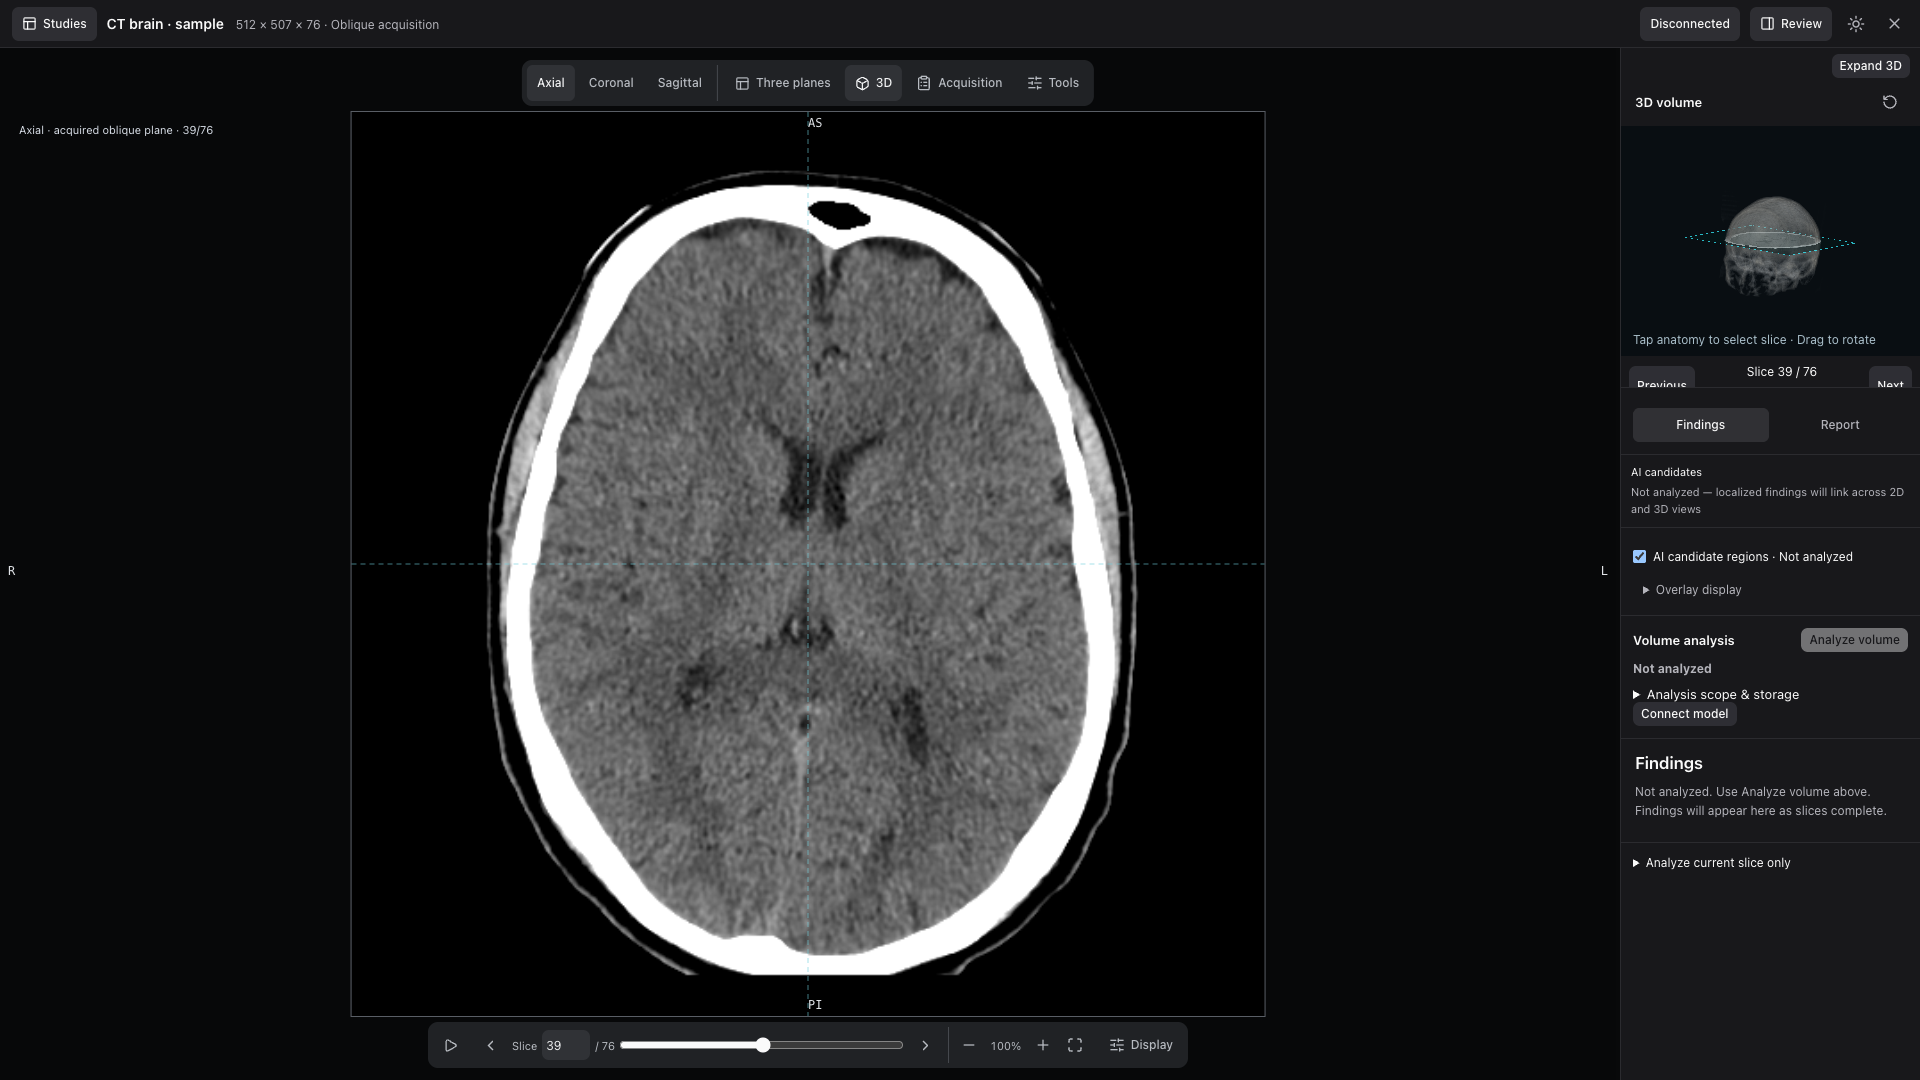
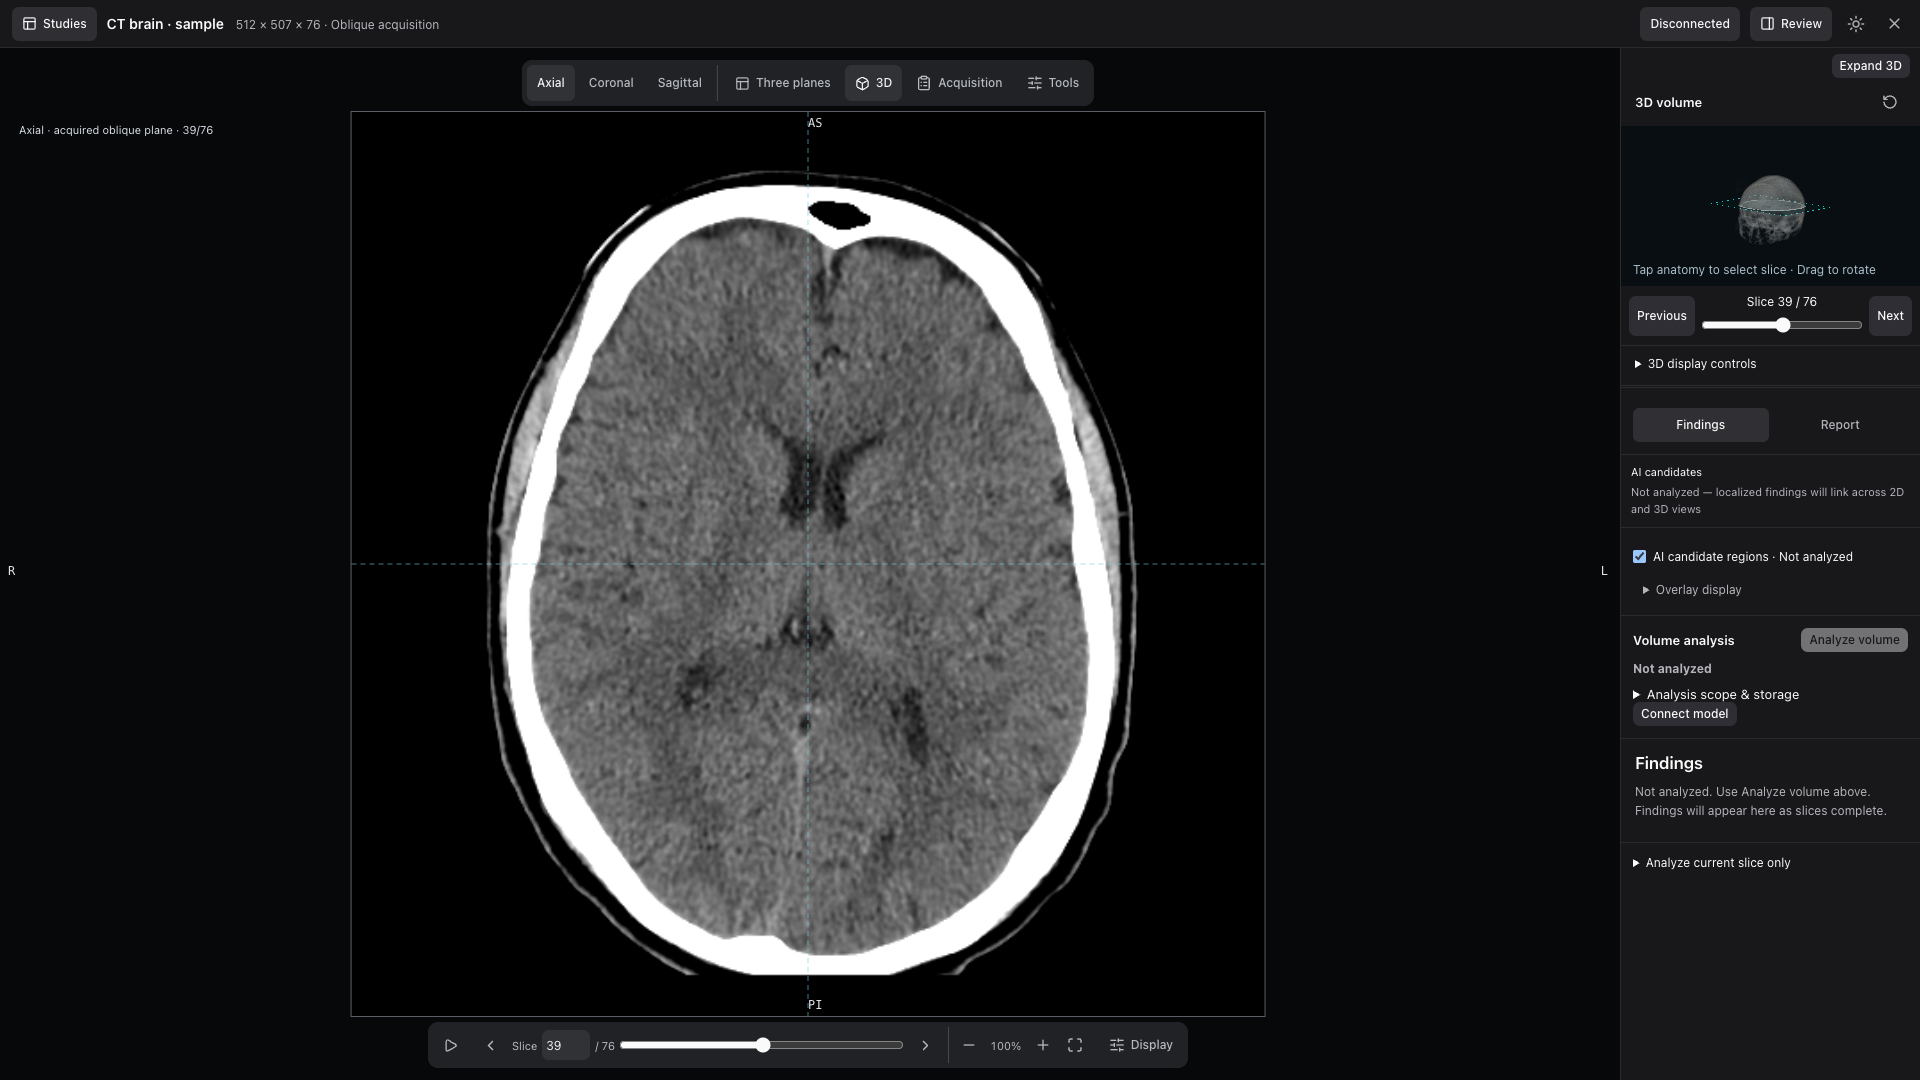
Fix three workspace layout glitches and retake all screenshots
- Sidebar open-volume card: a fixed 32px button height clipped its
  second and third lines; let it size to its content.
- 3D locator: the canvas reserved 110px for chrome but the header, slice
  navigation and controls need ~180px, so Previous/Next were cut off.
- X-ray Display button: the global reset removed its padding and left
  the browser's default outset border; style it like the volume dock
  button and add the same sliders icon.

Retake all six v0.2.0 workspace screenshots, including X-ray desktop and
mobile from ChestX-Det test image 36199, and update capture notes.

Changed region(s): [[0.8438, 0.1528, 1.0, 0.3667]]

diff --git a/app/src/components/viewer/ImageViewer.tsx b/app/src/components/viewer/ImageViewer.tsx
@@ -4,7 +4,7 @@ import { Popover, PopoverTrigger, PopoverContent } from '../ui/popover'
 // Diagnostic image viewer: fit/zoom/pan, window-level, invert, finding overlays locked to the image.
 import { useCallback, useEffect, useLayoutEffect, useMemo, useRef, useState } from 'react'
 import type { PointerEvent as ReactPointerEvent, WheelEvent as ReactWheelEvent } from 'react'
-import { ChevronLeft, ChevronRight, Columns2, Contrast, Eye, EyeOff, Flame, Layers, Maximize, RotateCcw, ZoomIn, ZoomOut } from 'lucide-react'
+import { ChevronLeft, ChevronRight, Columns2, Contrast, Eye, EyeOff, Flame, Layers, Maximize, RotateCcw, SlidersHorizontal, ZoomIn, ZoomOut } from 'lucide-react'
 import type { Finding, Heatmap, OverlayStyle, ViewerState } from '../../types'
 import { useActiveImage, useActiveStudy, useApp } from '../../store'
 import { findingCounts, isExcluded, isUnconfirmed, worstSeverity } from '../../lib/classifier'
@@ -498,7 +498,7 @@ export function ImageViewer() {
           <span>Image {study.images.findIndex((item) => item.id === image.id) + 1} / {study.images.length}</span>
           <ScanButton type="button" className="btn btn-sm" aria-label="Next image" disabled={study.images.findIndex((item) => item.id === image.id) >= study.images.length - 1} onClick={() => { const index = study.images.findIndex((item) => item.id === image.id); if (index < study.images.length - 1) selectImage(study.images[index + 1].id) }}><ChevronRight aria-hidden="true" /></ScanButton>
         </div>}
-        <Popover><PopoverTrigger asChild><ScanButton className="scan-display-trigger">Display</ScanButton></PopoverTrigger><PopoverContent side="top" align="end" className="scan-display-popover"><div className="vw-adjustment-fields">
+        <Popover><PopoverTrigger asChild><ScanButton className="scan-display-trigger"><SlidersHorizontal size={16} aria-hidden="true" /><span>Display</span></ScanButton></PopoverTrigger><PopoverContent side="top" align="end" className="scan-display-popover"><div className="vw-adjustment-fields">
           <label>Brightness <input type="range" min={20} max={300} value={viewer.brightness} onChange={(event) => setViewer({ brightness: Number(event.target.value) })} /><output>{viewer.brightness}%</output></label>
           <label>Contrast <input type="range" min={20} max={400} value={viewer.contrast} onChange={(event) => setViewer({ contrast: Number(event.target.value) })} /><output>{viewer.contrast}%</output></label>
           <ScanButton className="btn btn-sm" onClick={() => setViewer({ brightness: 100, contrast: 100, invert: false })}>Reset display</ScanButton><small>Display adjustment only. Source pixels are unchanged.</small>

diff --git a/app/src/styles/scanWorkspace.css b/app/src/styles/scanWorkspace.css
@@ -160,6 +160,8 @@
 .scan-content .vw-workspace > .vw-toolbox { position: absolute; top: 48px; bottom: auto; left: 50%; right: auto; transform: translateX(-50%); width: max-content; max-width: calc(100% - 24px); border: 0; border-radius: 10px; padding: 5px; background: var(--scan-surface); box-shadow: none; z-index: 6; }
 .scan-content .vw-reading-controls { position: absolute; bottom: 12px; left: 50%; transform: translateX(-50%); display: flex; align-items: center; justify-content: space-between; width: min(420px,calc(100% - 24px)); padding: 5px; border-radius: 10px; gap: 12px; z-index: 6; background: var(--scan-surface); }
 .scan-content .vw-reading-controls button { color: var(--scan-ink); background: transparent; }
+.vw-reading-controls .scan-display-trigger { border: 0; box-shadow: none; min-height: 36px; border-radius: 6px; font-size: 12px; padding: 6px 10px; }
+@media (max-width: 1023px) { .vw-reading-controls .scan-display-trigger { min-height: 44px; padding-inline: 8px; } }
 .scan-content .vw-workspace .vw-info { top: 104px !important; left: 16px !important; background: transparent; color: var(--scan-muted); }
 .scan-content .vw-workspace .vw-info .vw-name, .scan-content .vw-workspace .vw-info .vw-row:nth-child(2) { display: flex; color: var(--scan-ink); }
 .scan-content .vw-workspace > .vw-evidence { position: absolute; right: 12px; top: 102px; width: min(300px,40%); max-height: 35%; overflow: auto; background: #202225; border-radius: 8px; padding: 8px; font-size: 11px; z-index: 4; }

diff --git a/app/src/components/shell/volumeIdentity.css b/app/src/components/shell/volumeIdentity.css
@@ -4,7 +4,7 @@
 .volume-identity-source { overflow: hidden; text-overflow: ellipsis; white-space: nowrap; max-width: 100%; }
 .wl-volume-context { padding: 10px 8px 8px; border-bottom: 1px solid var(--separator); }
 .wl-volume-context-label { padding: 0 5px 6px; font-size: 11px; color: var(--label-2); }
-.wl-volume-current { width: 100%; display: flex; align-items: flex-start; gap: 9px; padding: 11px 10px; border: 1px solid var(--separator-strong); border-radius: 9px; color: var(--label); text-align: left; background: var(--bg-selected); cursor: pointer; }
+.wl-volume-current { width: 100%; height: auto; min-height: 0; display: flex; align-items: flex-start; gap: 9px; padding: 11px 10px; border: 1px solid var(--separator-strong); border-radius: 9px; color: var(--label); text-align: left; background: var(--bg-selected); cursor: pointer; }
 .wl-volume-current > svg { width: 17px; height: 17px; flex: none; margin-top: 1px; color: var(--accent); }
 .wl-volume-current > span { display: flex; flex-direction: column; gap: 4px; min-width: 0; }
 .wl-volume-current strong { font-weight: 600; font-size: 13px; overflow-wrap: anywhere; }

diff --git a/app/src/components/viewer/volumeViewer.css b/app/src/components/viewer/volumeViewer.css
@@ -192,7 +192,7 @@
 }
 @media(max-width:1023px) { .volume-review-toggle { display:none; } }
 @media(min-width:1024px) {
-  .volume-spatial-panel:not(.volume-spatial-panel--expanded) .vr-stage canvas { height:clamp(120px,calc(var(--volume-spatial-height,340px) - 110px),390px); }
+  .volume-spatial-panel:not(.volume-spatial-panel--expanded) .vr-stage canvas { height:clamp(120px,calc(var(--volume-spatial-height,340px) - 180px),390px); }
 }
 @media(min-width:1024px) {
   .volume-reading-mode { position:relative; }

diff --git a/docs/screenshots/v0.2.0/README.md b/docs/screenshots/v0.2.0/README.md
@@ -1,6 +1,6 @@
 # Workspace captures
 
-The four CT/MRI captures were retaken November 12, 2026 from the running development application at `127.0.0.1:5173` (local browser-storage mode). System Chrome was driven headlessly through `playwright-core` at a 1920 x 1080 viewport, and the images were saved without editing. Focus was cleared before each capture so no tooltips or focus rings show.
+All six captures were retaken November 12, 2026 from the running development application at `127.0.0.1:5173` (local browser-storage mode). System Chrome was driven headlessly through `playwright-core` at a 1920 x 1080 viewport, and the images were saved without editing. Focus was cleared before each capture so no tooltips or focus rings show.
 
 - `ct-workspace.png`: CT brain teaching sample, axial slice 39/76 (default), optional panels collapsed.
 - `ct-review.png`: same CT sample with the 3D locator and Review panel open.
@@ -9,8 +9,8 @@ The four CT/MRI captures were retaken November 12, 2026 from the running develop
 
 The model service was disconnected. No findings were generated for these captures. Sample provenance is recorded in `app/public/samples/provenance.json` at the repository root. These images show the application layout, not clinical validation or segmentation performance.
 
-## Swarm follow-up X-ray captures
+## X-ray captures
 
-`xray-workspace.png` and `xray-mobile.png` show public ChestX-Det test image 36199, downloaded through the MedOtter mirror's dataset API and imported with the native file picker. Desktop is 1920 x 1080; mobile is 400 x 792 CSS pixels at device pixel ratio 2, captured with Chrome's responsive screenshot action. Brightness and contrast were reset to 100 before capture. No inference was run. The empty patient context belongs to a local UI test study.
+`xray-workspace.png` (1920 x 1080) and `xray-mobile.png` (400 x 792 CSS pixels at device pixel ratio 2, touch emulation, Viewer tab) show public ChestX-Det test image 36199. It was extracted from the official test split parquet in the MedOtter mirror (`data/test-0000*-of-00002.parquet`) and imported through the app's file chooser. Brightness and contrast are at their defaults. No inference was run. The empty patient context belongs to a local test study.
 
[2 lines of base64/hex data omitted]

diff --git a/README.md b/README.md
@@ -106,7 +106,7 @@ Open **http://localhost:8088**. For HTTPS, persistence and backups, see the [dep
   </tr>
 </table>
 
-<sub>CT and MRI views captured November 12, 2026 (X-ray November 10) with public teaching samples and no model running. These screenshots show layout and navigation, not diagnostic performance.</sub>
+<sub>Workspace captured November 12, 2026 with public teaching samples and a public ChestX-Det film, and no model running. These screenshots show layout and navigation, not diagnostic performance.</sub>
 
 ## 📊 Benchmarks
 
